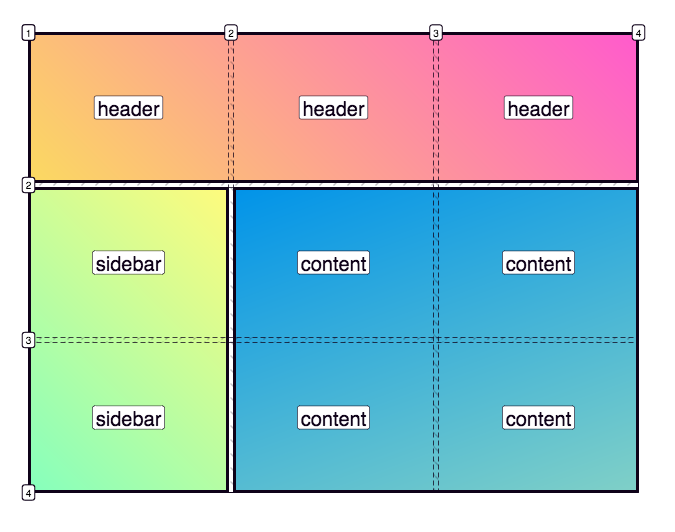
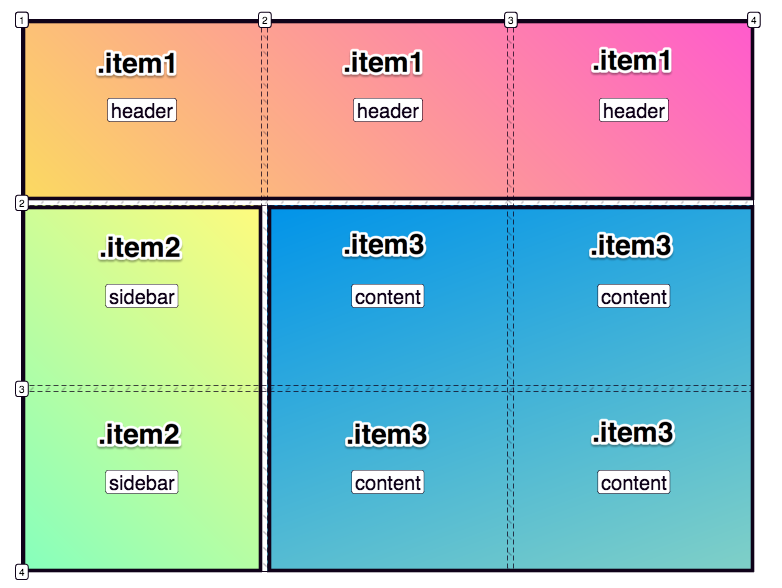
CSS grid demo zero: Concepts and Terminology - example4

diff --git a/CSS-grid-demo/case-study-1/index.html b/CSS-grid-demo/case-study-1/index.html
@@ -141,19 +141,35 @@
 <div id="demo-1-ex-4" class="code-example code-4">
   <pre rel="css" class="language-css">
     <code class="language-css">
-  /* The default behavior of Grid Auto Flow is to layout the elements by row, 
-     working along the row until there are no more slots then moving on to the next row.
-     This default behavior can be changed by using the grid-auto-flow property.
-     If you specify column then the elements will be laid out column by column. */
-  
-  .grid-container {
+    /* Three columns: 200px each */
+    /* Three rows: 150px each */
+    .grid-container {
       display: grid;
-      grid-template-columns: 1fr 300px 1fr;
-      grid-template-rows: 100px 200px;
-      grid-gap: 20px;
-      grid-auto-flow: column;
-   }
-    </code></pre>
+      grid-template-columns: 200px 200px 200px;
+      grid-template-rows: 150px 150px 150px;
+      grid-template-areas: 
+          "header header header"
+          "sidebar content content"
+          "sidebar content content";
+      grid-gap: 5px;
+    }
+
+    /* You can refer to a grid area using its bounding grid lines or its name 
+    as defined by the grid-template-areas property. 
+    A grid item can then be assigned to a grid area with grid-placement 
+    properties like grid-area, grid-row, grid-column */
+    
+    .item1 {
+      grid-area: header;
+    }
+    .item2 {
+      grid-area: sidebar;
+    }
+    .item3 {
+      grid-area: content;
+    }
+    </code>
+  </pre>
 </div>
 </div>
 
